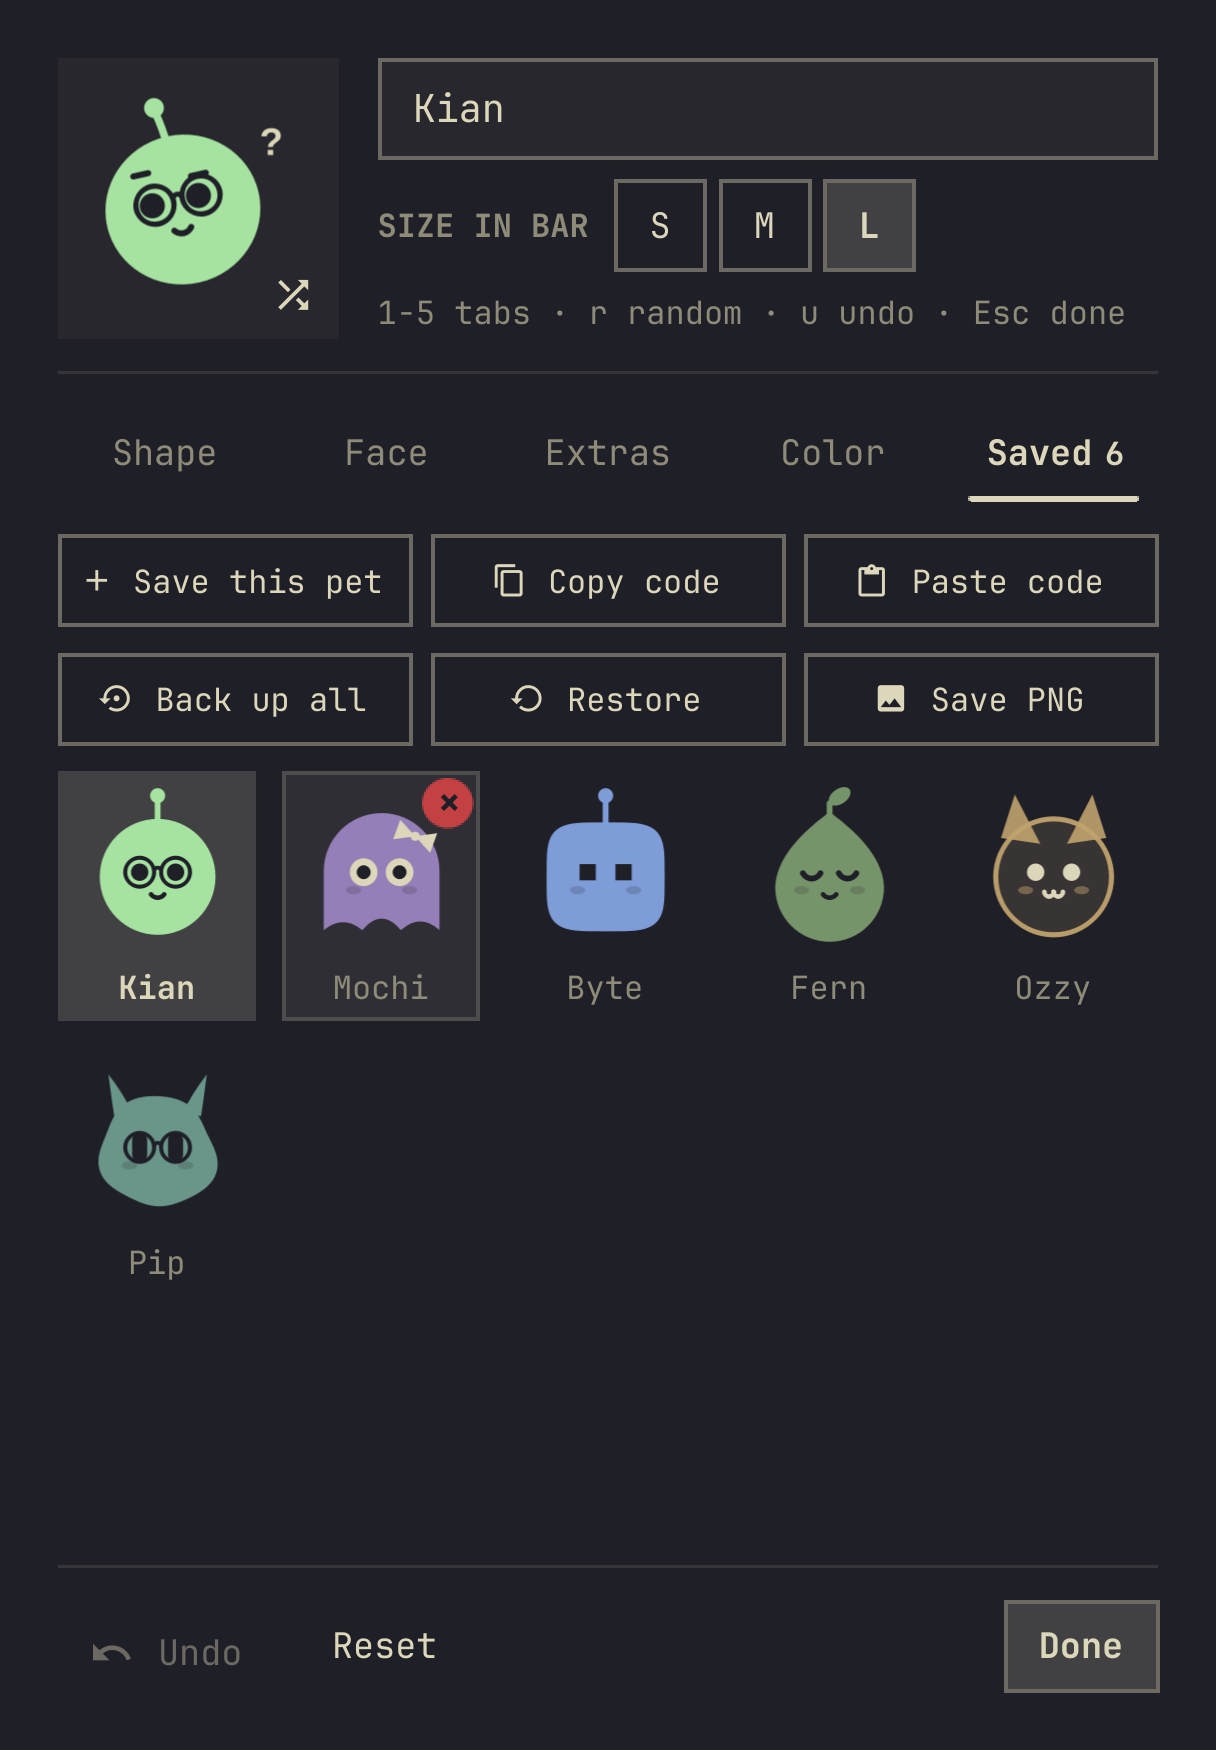
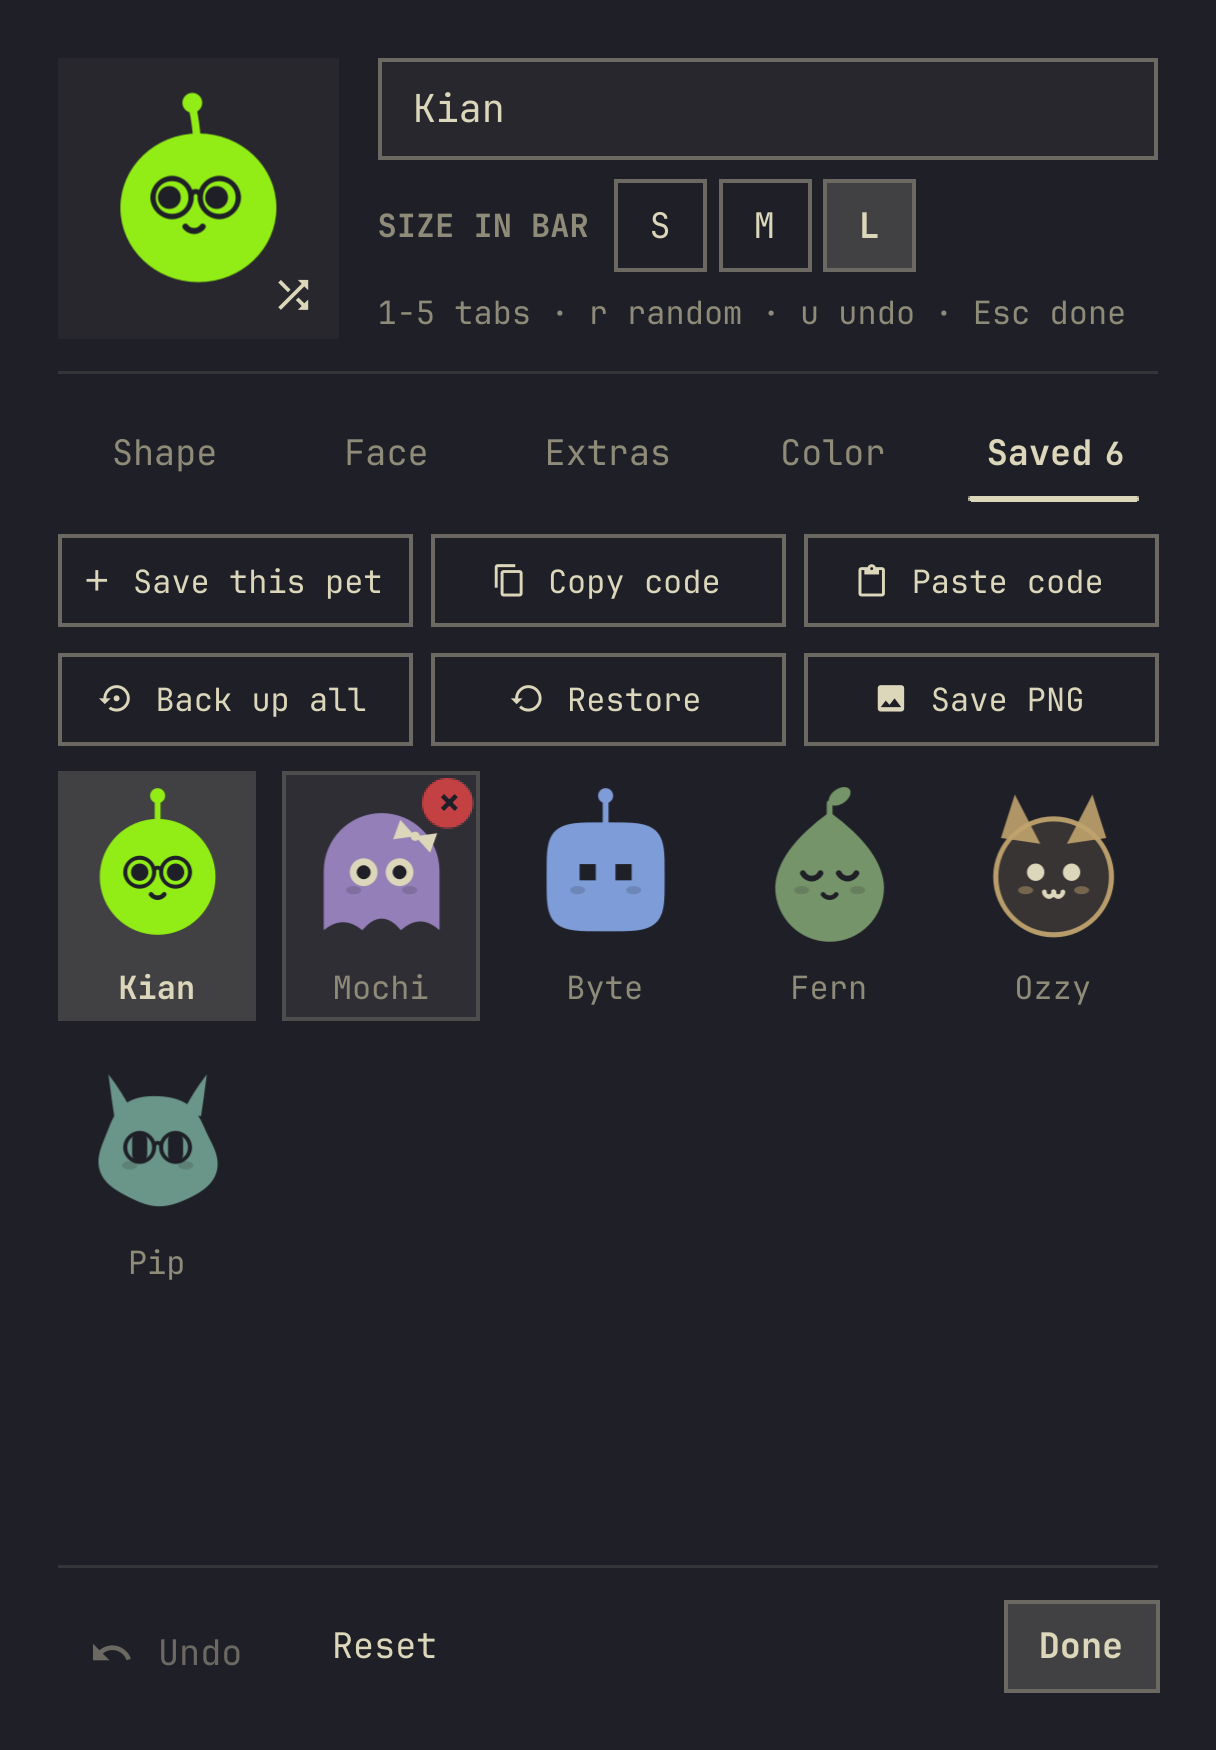
Polish: one-line tip under the name, personality cards, whole-body face chips
- The tip box becomes a single line under the pet's name (hover to read
  the whole tip, › for the next one); limit alerts stay red
- While the settings are open the top pet hides, so only the pet being
  edited shows, and the subtitle reads "PET SETTINGS"
- Personality is three equal cards (glyph, name, short hint); the chosen
  one is filled, outlined and checked
- Eye and mouth chips show the whole body instead of a zoomed crop

Changed region(s): [[0.0625, 0.0309, 0.25, 0.1851], [0.0625, 0.432, 0.1875, 0.5554]]

diff --git a/Panel.qml b/Panel.qml
@@ -1477,12 +1477,19 @@ Panel {
           Item {
             id: hero
             width: parent.width
-            implicitHeight: Math.max(heroAvatar.implicitHeight, heroLabelsCol.implicitHeight, trailingButtons.implicitHeight)
+            implicitHeight: heroTop.height + (tipLine.visible ? tipLine.height + Style.space(8) : 0)
 
             property real metaOpacity: 1.0
 
+            Item {
+            id: heroTop
+            width: parent.width
+            height: Math.max(heroAvatar.visible ? heroAvatar.implicitHeight : 0, heroLabelsCol.implicitHeight, trailingButtons.implicitHeight)
+
             BlobAvatar {
               id: heroAvatar
+              // While editing, only the pet being edited is shown.
+              visible: !root.petEditing
               anchors.left: parent.left
               anchors.verticalCenter: parent.verticalCenter
               size: root.petHeroSize
@@ -1500,8 +1507,8 @@ Panel {
 
             Column {
               id: heroLabelsCol
-              anchors.left: heroAvatar.right
-              anchors.leftMargin: Style.space(12)
+              anchors.left: heroAvatar.visible ? heroAvatar.right : parent.left
+              anchors.leftMargin: heroAvatar.visible ? Style.space(12) : 0
               anchors.right: trailingButtons.left
               anchors.rightMargin: Style.space(8)
               anchors.verticalCenter: parent.verticalCenter
@@ -1525,6 +1532,7 @@ Panel {
                 textFormat: Text.PlainText
                 text: {
                   if (root.addStage !== "") return root.addHeading.toUpperCase()
+                  if (root.petEditing) return petStrings.t("pet.edit", "Pet settings").toUpperCase()
                   if (!usage || !usage.formatTokenCount) return ""
                   if (root.totalTokensToday > 0) {
                     return petStrings.tn("agents.tokensToday", root.totalTokensToday).arg(usage.formatTokenCount(root.totalTokensToday)).toUpperCase()
@@ -1582,72 +1590,62 @@ Panel {
                 onClicked: root.launchAgent()
               }
             }
-          }
+            }
 
-          // ---------- Companion Tip & Alert Banner (Full width, multi-line) ----------
-          Rectangle {
-            id: tipBanner
-            visible: root.addStage === "" && !root.blankSlate && root.heroPhrase !== "" && !root.petEditing
-            width: parent.width
-            radius: Style.cornerRadius
-            color: root.currentInsightIsAlert
-              ? Qt.rgba(Commons.Color.urgent.r, Commons.Color.urgent.g, Commons.Color.urgent.b, 0.12)
-              : Qt.rgba(Commons.Color.accent.r, Commons.Color.accent.g, Commons.Color.accent.b, 0.08)
-            border.width: 1
-            border.color: root.currentInsightIsAlert
-              ? Qt.rgba(Commons.Color.urgent.r, Commons.Color.urgent.g, Commons.Color.urgent.b, 0.35)
-              : Qt.rgba(Commons.Color.accent.r, Commons.Color.accent.g, Commons.Color.accent.b, 0.20)
-            opacity: hero.metaOpacity
+            // ---------- Tip line: one line under the name; hover to read it whole ----------
+            Item {
+              id: tipLine
+              readonly property bool expanded: tipLineHover.hovered
+              visible: root.addStage === "" && !root.blankSlate && !root.petEditing && !!root.currentInsight
+              anchors.top: heroTop.bottom
+              anchors.topMargin: Style.space(8)
+              x: heroLabelsCol.x
+              width: parent.width - x
+              height: Math.max(tipText.implicitHeight, nextTip.height)
+              opacity: hero.metaOpacity
 
-            implicitHeight: tipBannerCol.implicitHeight + Style.space(16)
-            height: implicitHeight
+              HoverHandler {
+                id: tipLineHover
+                onHoveredChanged: root.tipBannerHovered = hovered
+              }
 
-            Behavior on color { ColorAnimation { duration: Style.duration(150) } }
-            Behavior on border.color { ColorAnimation { duration: Style.duration(150) } }
+              Text {
+                id: tipIcon
+                anchors.left: parent.left
+                anchors.top: parent.top
+                anchors.topMargin: Math.max(0, (nextTip.height - implicitHeight) / 2)
+                textFormat: Text.PlainText
+                text: root.currentInsightIcon
+                font.pixelSize: Style.font.caption
+              }
 
-            Column {
-              id: tipBannerCol
-              anchors.left: parent.left
-              anchors.right: parent.right
-              anchors.top: parent.top
-              anchors.margins: Style.space(8)
-              spacing: Style.space(4)
-
-              Item {
-                width: parent.width
-                height: Math.max(badgeRow.implicitHeight, nextTip.height)
-
-              Row {
-                id: badgeRow
-                anchors.verticalCenter: parent.verticalCenter
-                spacing: Style.space(6)
-
-                Text {
-                  textFormat: Text.PlainText
-                  text: root.currentInsightIcon
-                  font.pixelSize: Style.font.caption
-                  anchors.verticalCenter: parent.verticalCenter
-                }
-
-                Text {
-                  textFormat: Text.PlainText
-                  text: root.currentInsightBadge
-                  color: root.currentInsightIsAlert ? Commons.Color.urgent : Commons.Color.accent
-                  font.family: root.fontFamily
-                  font.pixelSize: Style.font.caption - 1
-                  font.bold: true
-                  font.letterSpacing: 1.1
-                  anchors.verticalCenter: parent.verticalCenter
-                }
+              Text {
+                id: tipText
+                anchors.left: tipIcon.right
+                anchors.leftMargin: Style.space(6)
+                anchors.right: nextTip.left
+                anchors.rightMargin: Style.space(4)
+                anchors.top: parent.top
+                anchors.topMargin: tipLine.expanded ? 0 : Math.max(0, (nextTip.height - implicitHeight) / 2)
+                textFormat: Text.PlainText
+                text: root.currentInsight ? root.currentInsight.phrase : ""
+                color: root.currentInsightIsAlert ? Commons.Color.urgent : root.foreground
+                font.family: root.fontFamily
+                font.pixelSize: Style.font.bodySmall
+                font.weight: root.currentInsightIsAlert ? Font.DemiBold : Font.Normal
+                // One line until hovered, then the whole tip.
+                wrapMode: tipLine.expanded ? Text.WordWrap : Text.NoWrap
+                elide: tipLine.expanded ? Text.ElideNone : Text.ElideRight
+                maximumLineCount: tipLine.expanded ? 6 : 1
               }
 
               Rectangle {
                 id: nextTip
                 anchors.right: parent.right
-                anchors.verticalCenter: parent.verticalCenter
+                anchors.top: parent.top
                 visible: root.deepInsights.length > 1
-                width: Style.space(22)
-                height: Style.space(22)
+                width: Style.space(20)
+                height: Style.space(20)
                 radius: Style.cornerRadius
                 color: nextTipMouse.containsMouse
                   ? Qt.rgba(root.foreground.r, root.foreground.g, root.foreground.b, 0.1)
@@ -1675,32 +1673,6 @@ Panel {
                   text: petStrings.t("tip.next")
                 }
               }
-              }
-
-              Text {
-                id: tipBannerText
-                textFormat: Text.PlainText
-                width: parent.width
-                // Read straight from the current insight so the badge and text
-                // can never drift apart when the insight list is rebuilt.
-                text: root.currentInsight ? root.currentInsight.phrase : root.heroPhrase
-                color: root.currentInsightIsAlert ? Commons.Color.urgent : root.foreground
-                font.family: root.fontFamily
-                font.pixelSize: Style.font.body
-                font.weight: root.currentInsightIsAlert ? Font.DemiBold : Font.Normal
-                wrapMode: Text.WordWrap
-                lineHeight: 1.25
-              }
-            }
-
-            MouseArea {
-              id: tipBannerMouse
-              anchors.fill: parent
-              z: -1
-              hoverEnabled: true
-              acceptedButtons: Qt.NoButton
-              onEntered: root.tipBannerHovered = true
-              onExited: root.tipBannerHovered = false
             }
           }
 

diff --git a/PetEditor.qml b/PetEditor.qml
@@ -1070,21 +1070,93 @@ Item {
           title: strings.t("pet.personality", "PERSONALITY")
           value: strings.t("pet.personality." + root.petReactions, ({ lively: "Lively", calm: "Calm", still: "Still" })[root.petReactions])
         }
-        ButtonGroup {
+        // Three cards instead of a button group: the chosen one is filled with
+        // the accent, outlined and checked, so the selection reads at a glance.
+        Row {
+          id: personalityRow
+          width: parent.width
           spacing: Style.space(6)
-          focusable: false
-          fontSize: Style.font.bodySmall
-          fontFamily: root.fontFamily
-          foreground: root.foreground
-          value: root.petReactions
-          options: [
-            { value: "lively", label: strings.t("pet.personality.lively", "Lively"), tooltip: strings.t("pet.personality.livelyTip", "Reacts to everything, with little fidgets") },
-            { value: "calm", label: strings.t("pet.personality.calm", "Calm"), tooltip: strings.t("pet.personality.calmTip", "Reacts to you, no idle fidgets") },
-            { value: "still", label: strings.t("pet.personality.still", "Still"), tooltip: strings.t("pet.personality.stillTip", "Poses only, no animated reactions") }
-          ]
-          cursorIndex: root.keyTarget && root.keyTarget.kind === "pet.personality" ? root.keyTarget.index : -1
-          onChanged: function(v) { root.setReactions(v) }
-          onHovered: function(i, h) { if (h) root.pointRequested("pet.personality", i) }
+          // Every card gets room for the label plus two lines of hint, so the
+          // three always line up whatever the language.
+          readonly property real cardHeight: labelMetrics.height + 2 * hintMetrics.height + Style.space(2) + Style.space(16)
+          FontMetrics { id: labelMetrics; font.family: root.fontFamily; font.pixelSize: Style.font.bodySmall }
+          FontMetrics { id: hintMetrics; font.family: root.fontFamily; font.pixelSize: Style.font.caption - 1 }
+          Repeater {
+            model: [
+              { value: "lively", glyph: "", label: strings.t("pet.personality.lively", "Lively"), hint: strings.t("pet.personality.livelyShort", "Reacts to everything"), tooltip: strings.t("pet.personality.livelyTip", "Reacts to everything, with little fidgets") },
+              { value: "calm", glyph: "", label: strings.t("pet.personality.calm", "Calm"), hint: strings.t("pet.personality.calmShort", "No idle fidgets"), tooltip: strings.t("pet.personality.calmTip", "Reacts to you, no idle fidgets") },
+              { value: "still", glyph: "", label: strings.t("pet.personality.still", "Still"), hint: strings.t("pet.personality.stillShort", "Poses only"), tooltip: strings.t("pet.personality.stillTip", "Poses only, no animated reactions") }
+            ]
+            Rectangle {
+              id: card
+              required property var modelData
+              required property int index
+              readonly property bool chosen: root.petReactions === modelData.value
+              readonly property bool cursor: root.isKey("pet.personality", index)
+              width: (personalityRow.width - 2 * personalityRow.spacing) / 3
+              height: personalityRow.cardHeight
+              radius: Style.cornerRadius
+              color: chosen
+                ? Qt.rgba(root.accent.r, root.accent.g, root.accent.b, 0.2)
+                : Qt.rgba(root.foreground.r, root.foreground.g, root.foreground.b, (cardMouse.containsMouse || cursor) ? 0.08 : 0.03)
+              border.width: chosen ? 2 : 1
+              border.color: chosen ? root.accent : Qt.rgba(root.foreground.r, root.foreground.g, root.foreground.b, cursor ? 0.45 : 0.15)
+              Behavior on color { ColorAnimation { duration: Style.duration(120) } }
+
+              Text {
+                visible: card.chosen
+                anchors.top: parent.top
+                anchors.right: parent.right
+                anchors.margins: Style.space(5)
+                textFormat: Text.PlainText
+                text: ""
+                color: root.accent
+                font.pixelSize: Style.font.caption
+              }
+
+              Column {
+                id: cardCol
+                anchors.left: parent.left
+                anchors.right: parent.right
+                anchors.top: parent.top
+                anchors.margins: Style.space(8)
+                spacing: Style.space(2)
+                Text {
+                  textFormat: Text.PlainText
+                  text: card.modelData.glyph + "  " + card.modelData.label
+                  color: card.chosen ? root.accent : root.foreground
+                  font.family: root.fontFamily
+                  font.pixelSize: Style.font.bodySmall
+                  font.bold: card.chosen
+                }
+                Text {
+                  width: parent.width
+                  textFormat: Text.PlainText
+                  text: card.modelData.hint
+                  color: root.dim
+                  font.family: root.fontFamily
+                  font.pixelSize: Style.font.caption - 1
+                  wrapMode: Text.WordWrap
+                  maximumLineCount: 2
+                  elide: Text.ElideRight
+                }
+              }
+
+              MouseArea {
+                id: cardMouse
+                anchors.fill: parent
+                hoverEnabled: true
+                cursorShape: Qt.PointingHandCursor
+                onEntered: root.pointRequested("pet.personality", card.index)
+                onClicked: root.setReactions(card.modelData.value)
+              }
+
+              PanelToolTip {
+                visible: cardMouse.containsMouse
+                text: card.modelData.tooltip
+              }
+            }
+          }
         }
         Row {
           id: reactRow

diff --git a/BlobAvatar.qml b/BlobAvatar.qml
@@ -947,8 +947,9 @@ Item {
   // Where a framed chip looks, and how close: {x, y, z} in the same space as
   // cx / cy. Every chip zoom lives here.
   function frameFocus(framing, cx, cy, r) {
-    if (framing === "eyes") return { x: cx, y: cy - 0.08 * r, z: 1.5 }
-    if (framing === "mouth") return { x: cx, y: cy + 0.18 * r, z: 1.6 }
+    // Face chips show the whole body (no crop); the chip look already drops
+    // accessories and head extras so the eyes and mouth read clearly.
+    if (framing === "eyes" || framing === "mouth") return { x: cx, y: cy, z: 1.0 }
     if (framing === "top") return { x: cx, y: headTop(cy, r, 1) + 0.12 * r, z: 1.35 }
     if (framing === "topRight") return { x: cx + 0.42 * r, y: cy - 0.62 * r, z: 1.7 }
     if (framing === "topLeft") return { x: cx - 0.42 * r, y: cy - 0.62 * r, z: 1.7 }
